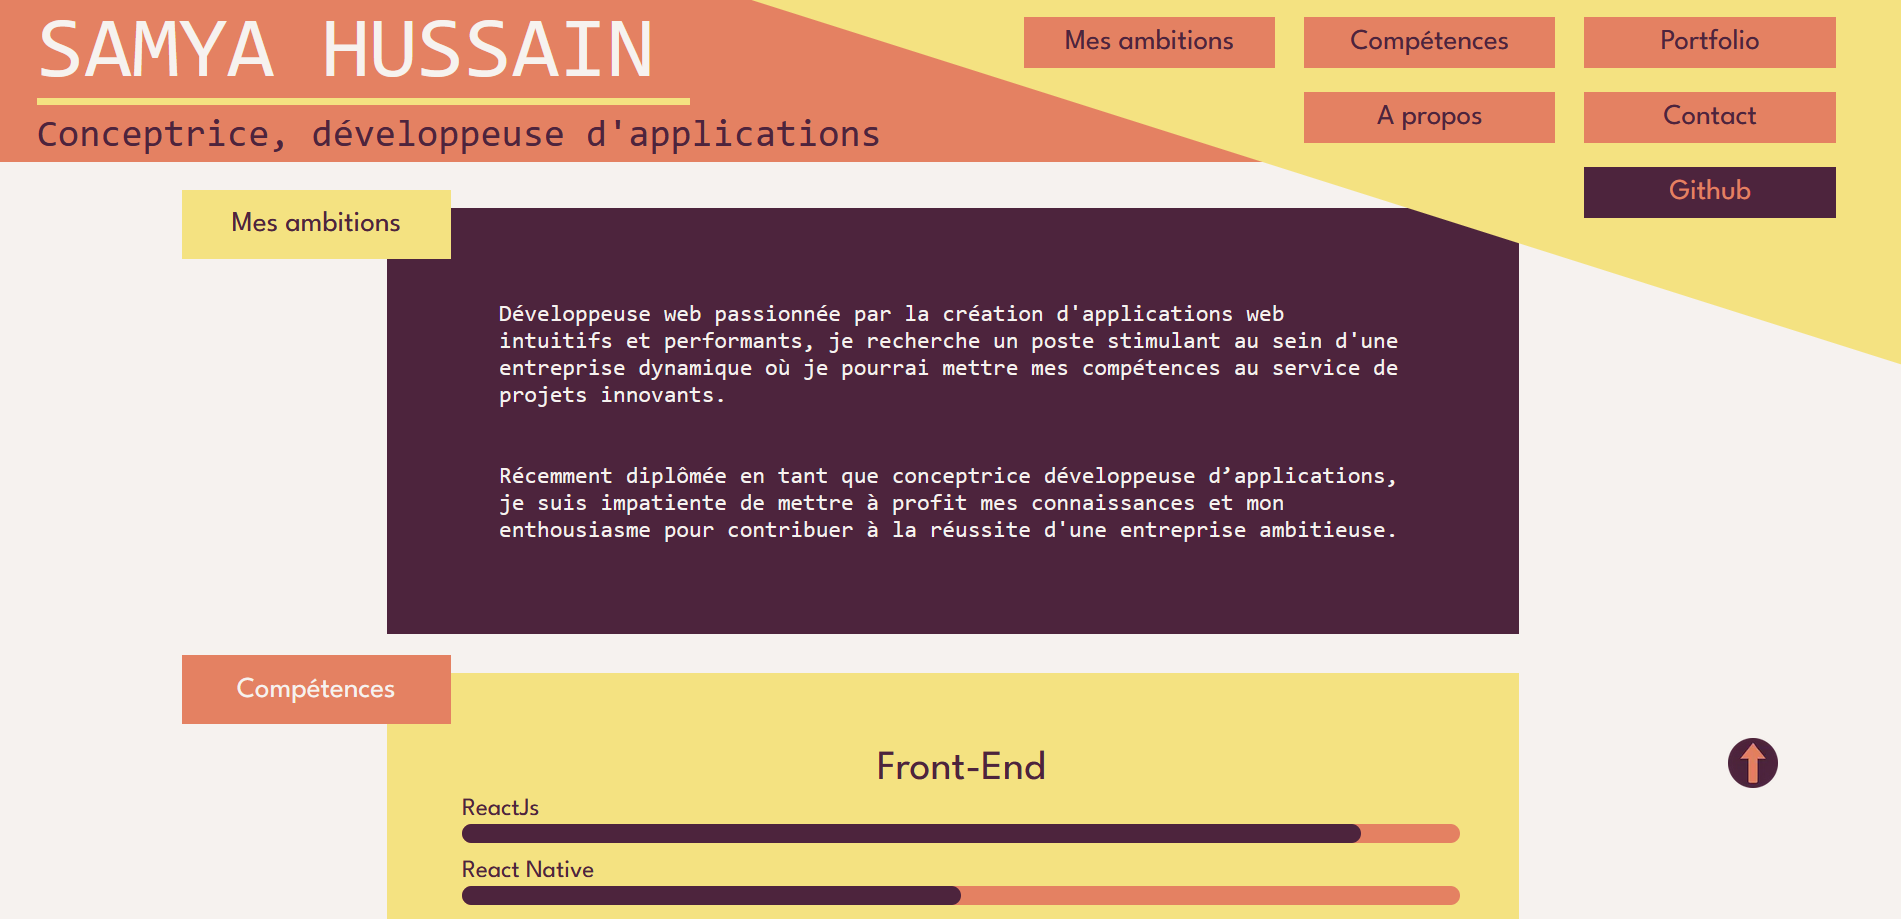
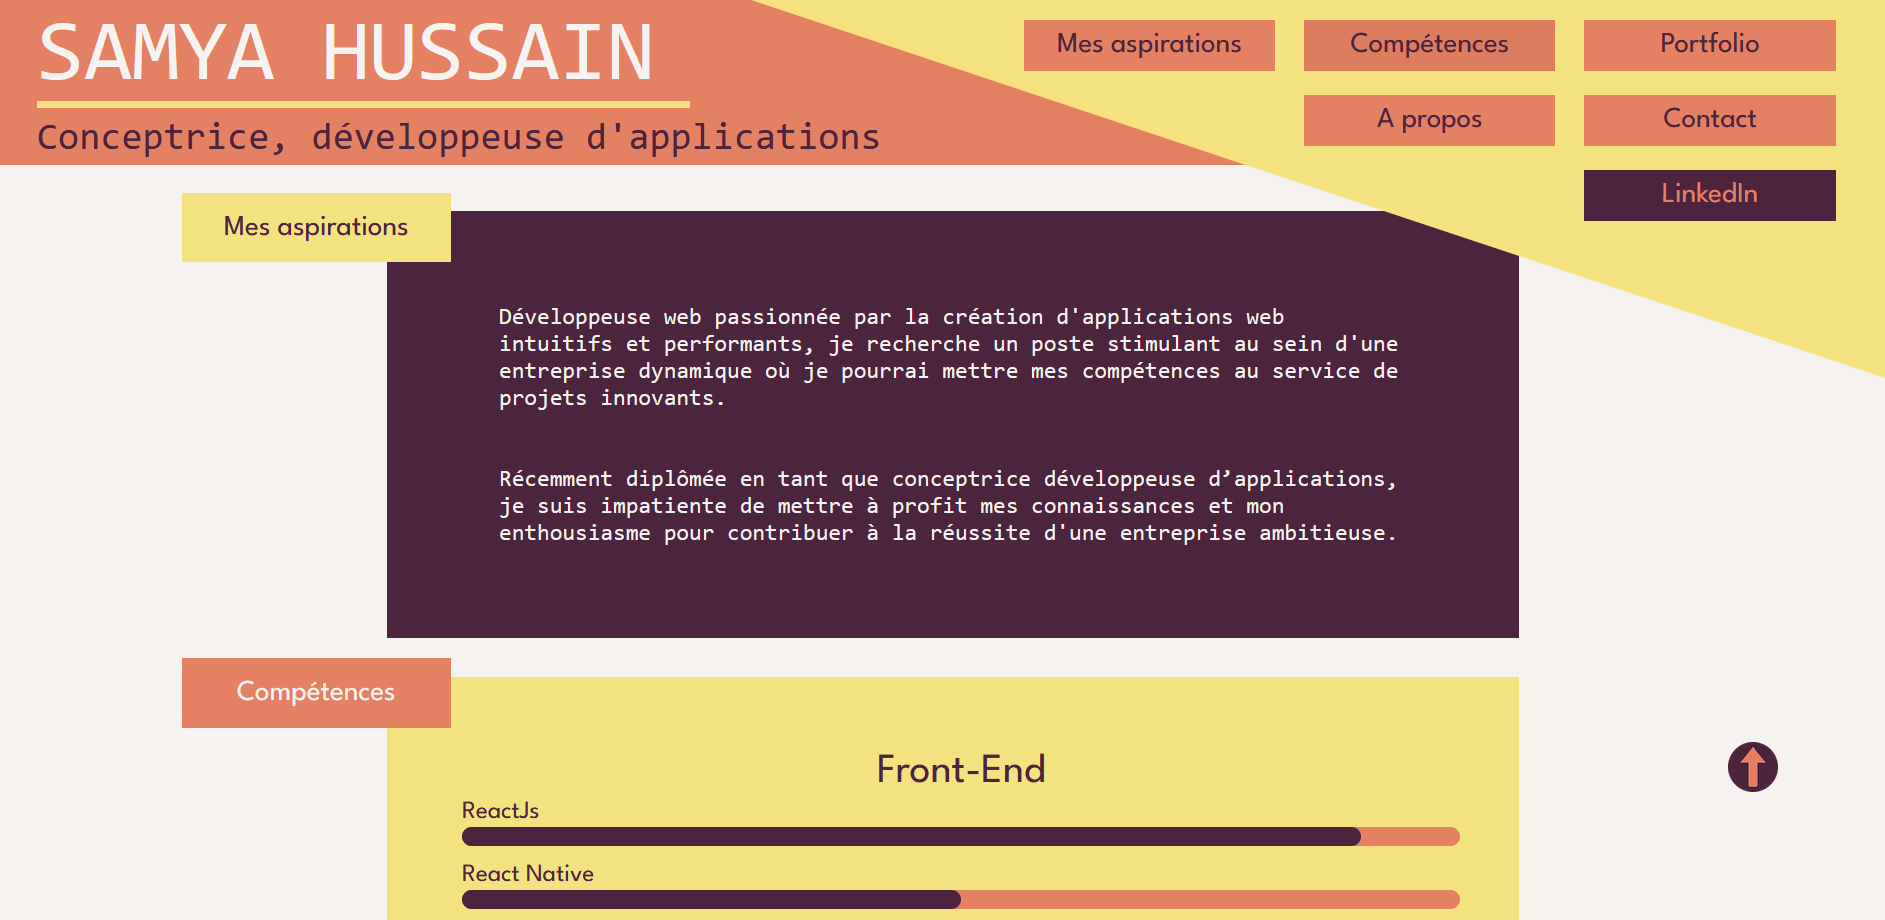
Aspirations

diff --git a/src/app/Header.js b/src/app/Header.js
@@ -44,7 +44,7 @@ const Header = () => {
               className={`${styles.itemMenu} ${styles.violetMenu} ${styles.orangeBackgroundMenu}`}
             >
               <li>
-                <h2>Mes ambitions</h2>
+                <h2>Mes aspirations</h2>
               </li>
             </Link>
             <Link
@@ -111,7 +111,7 @@ const Menu = () => {
               className={`${styles.item} ${styles.violet} ${styles.jauneBackground}`}
             >
               <li>
-                <h2>Mes ambitions</h2>
+                <h2>Mes aspirations</h2>
               </li>
             </Link>
             <Link

diff --git a/src/app/page.js b/src/app/page.js
@@ -87,7 +87,7 @@ export default function Home() {
         id={"ambitions"}
         classNameContenu={styles.contenuViolet}
         classNameTitre={styles.titreJaune}
-        titre={"Mes ambitions"}
+        titre={"Mes aspirations"}
         contenu={
           <p>
             Développeuse web passionnée par la création d'applications web
